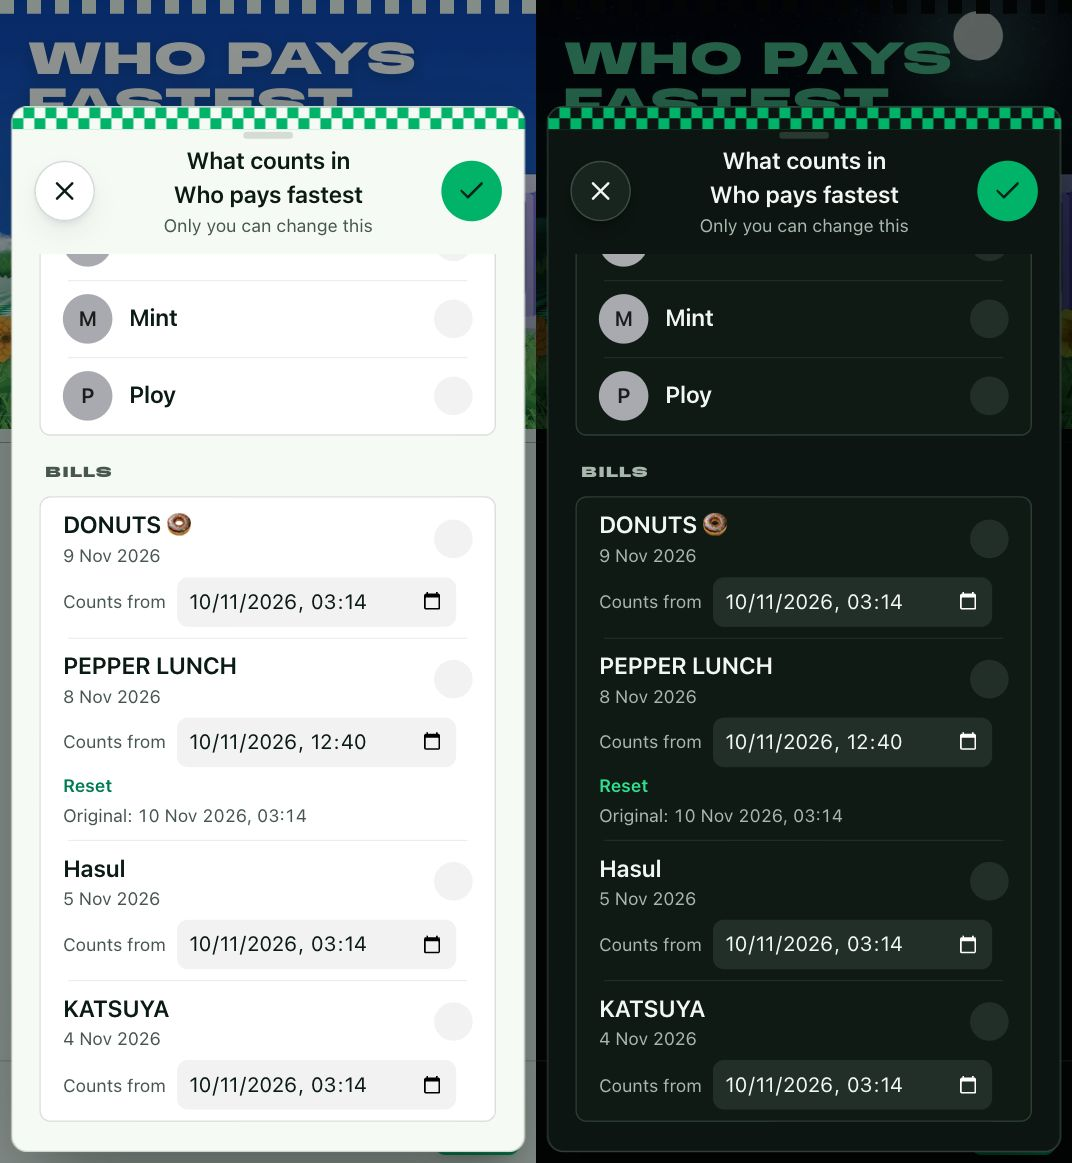
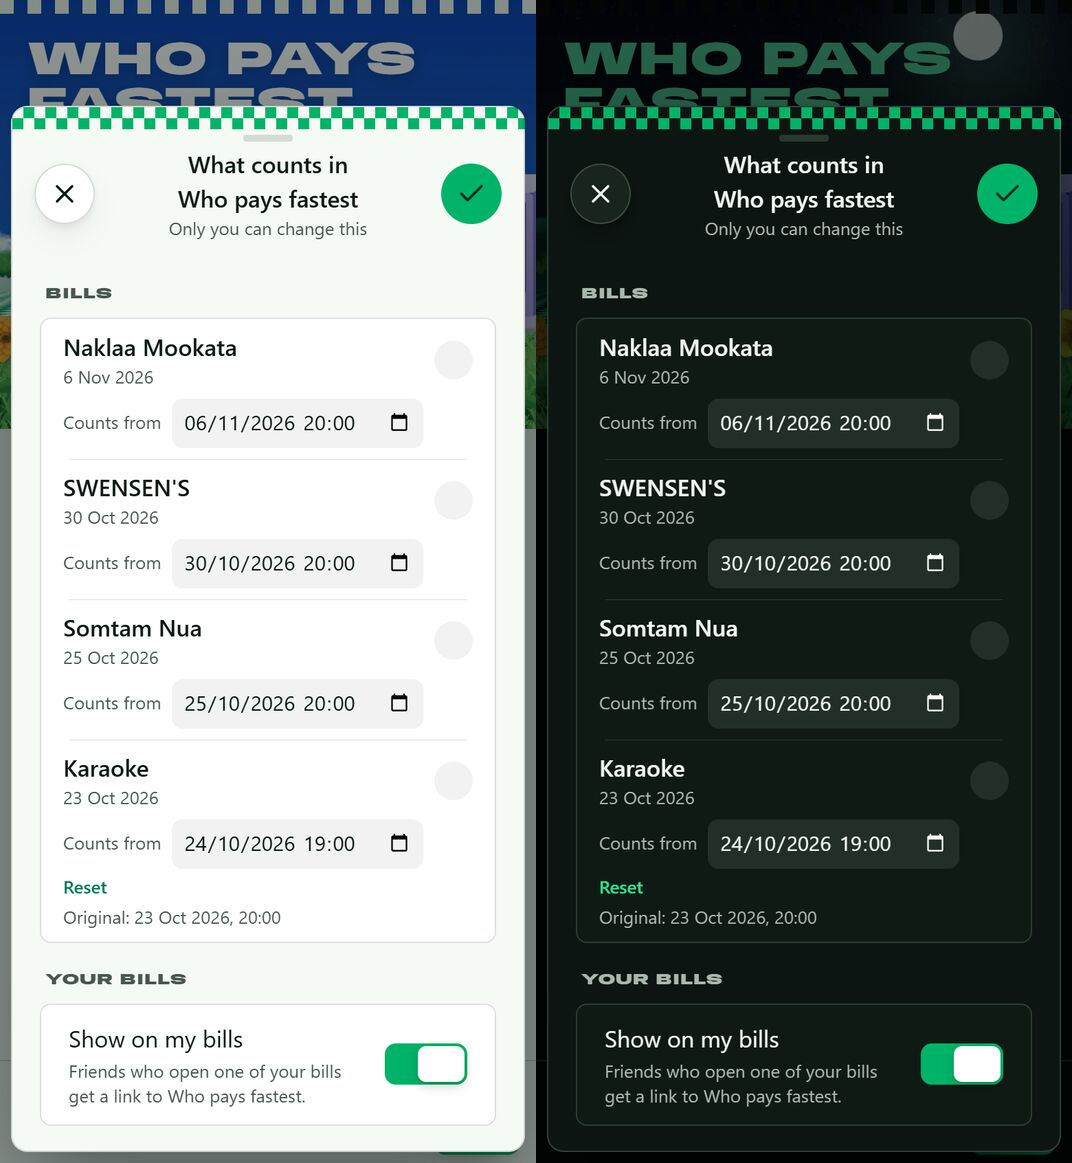
README: the Hide sheet screenshot shows the Show on my bills switch (#35)
Retaken with the README's sample bills, scrolled to the end of the sheet:
the bills with their "Counts from" times (one changed, with its original
time under it) and the new switch. Its alt text says so. Also notes that
CodeQL scans the code and that the list routes have tests.

diff --git a/README.md b/README.md
@@ -62,7 +62,7 @@ The link preview friends see in chat:
   <img src="docs/screenshots/history.jpg" alt="History, with Owed to you, What I owe and Who pays fastest at the top, light and dark" width="380">
   <img src="docs/screenshots/owed.jpg" alt="Owed to you, with a link to share the list, light and dark" width="380">
   <img src="docs/screenshots/pays-fastest.jpg" alt="Who pays fastest: the top five on a podium with Share and Copy link, Hide, and each friend's bills with how long they took to pay, light and dark" width="380">
-  <img src="docs/screenshots/fastest-hide.jpg" alt="What counts in Who pays fastest: friends to hide, bills to leave out, and when each bill counts from, with the original time under a changed one, light and dark" width="380">
+  <img src="docs/screenshots/fastest-hide.jpg" alt="What counts in Who pays fastest: bills to leave out, when each bill counts from, with the original time under a changed one, and the Show on my bills switch, light and dark" width="380">
   <img src="docs/screenshots/owe.jpg" alt="What I owe on a friend's phone, light and dark" width="380">
   <img src="docs/screenshots/list.jpg" alt="The shareable who still owes list, with how long each person hasn't paid, light and dark" width="380">
 </p>
@@ -81,13 +81,13 @@ Next.js 16 (App Router) · React 19 · TypeScript · Tailwind CSS v4 · Redis (R
 npm install
 cp .env.example .env.local   # optional: fill in only what you need (see below)
 npm run dev              # http://localhost:3000  (add `-- -H 0.0.0.0` to open it from a phone on the same Wi-Fi)
-npm test                 # Vitest: money maths, rounding, scan clean-up, slips, big bills, PromptPay, backup…
+npm test                 # Vitest: money maths, rounding, scan clean-up, slips, big bills, PromptPay, backup, the list routes…
 npm run lint
 npm run typecheck        # generates Next's route types, then tsc
 npm run build
 ```
 
-Without Redis/Blob settings, `npm run dev` uses in-memory stores, so sharing and uploads work locally (lost on restart). Without `GEMINI_API_KEY`, scanning says it isn't set up and items are added by hand. GitHub Actions runs lint, typecheck, tests and the build on every push to `main` and every pull request; Dependabot opens update PRs weekly.
+Without Redis/Blob settings, `npm run dev` uses in-memory stores, so sharing and uploads work locally (lost on restart). Without `GEMINI_API_KEY`, scanning says it isn't set up and items are added by hand. GitHub Actions runs lint, typecheck, tests and the build on every push to `main` and every pull request; CodeQL scans the code; Dependabot opens update PRs weekly.
 
 Scripts:
 
